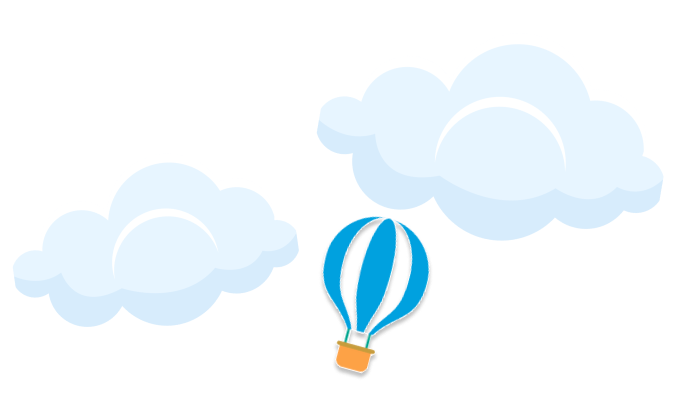
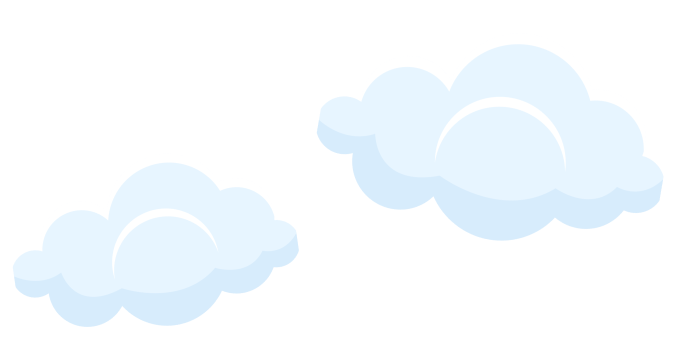
serviços finalizado

diff --git a/servicos.html b/servicos.html
@@ -44,29 +44,29 @@
       </div>
     </header>
 
-    <main class="intro-bg">
-      <div class="wave">
-        <svg
-          data-name="Layer 1"
-          xmlns="http://www.w3.org/2000/svg"
-          viewBox="0 0 1200 120"
-          preserveAspectRatio="none">
-          <path
-            d="M321.39,56.44c58-10.79,114.16-30.13,172-41.86,82.39-16.72,168.19-17.73,250.45-.39C823.78,31,906.67,72,985.66,92.83c70.05,18.48,146.53,26.09,214.34,3V0H0V27.35A600.21,600.21,0,0,0,321.39,56.44Z"
-            class="shape-fill"></path>
-        </svg>
-      </div>
-      <article class="servicos">
-        <section class="container" aria-label="Palestras">
-          <div class="texto-servicos col-2">
-            <h1 class="font-1-xl cor-a4">Nossos <span>serviços</span>.</h1>
-            <p class="font-3-regular cor-a3">
-              Percebendo essa busca por ser o melhor Pai enquanto líder, amigo,
-              conselheiro e até mesmo marido. É com este compilado que oferto
-              minha visão paternal para todos!
-            </p>
-          </div>
-          <div class="palestras-img">
+    <main>
+      <div class="intro-bg">
+        <div class="wave">
+          <svg
+            data-name="Layer 1"
+            xmlns="http://www.w3.org/2000/svg"
+            viewBox="0 0 1200 120"
+            preserveAspectRatio="none">
+            <path
+              d="M321.39,56.44c58-10.79,114.16-30.13,172-41.86,82.39-16.72,168.19-17.73,250.45-.39C823.78,31,906.67,72,985.66,92.83c70.05,18.48,146.53,26.09,214.34,3V0H0V27.35A600.21,600.21,0,0,0,321.39,56.44Z"
+              class="shape-fill"></path>
+          </svg>
+        </div>
+        <div class="texto-servicos container">
+          <h1 class="font-1-xl cor-a4 col-2">Nossos <span>serviços</span>.</h1>
+          <p class="font-3-regular cor-a3">
+            Percebendo essa busca por ser o melhor Pai enquanto líder, amigo,
+            conselheiro e até mesmo marido. É com este compilado que oferto
+            minha visão paternal para todos!
+          </p>
+        </div>
+        <section class="servicos palestras container" aria-label="Palestras">
+          <div class="servicos-img">
             <img src="/imgs/diretor.jpg" alt="" />
           </div>
           <div class="texto-palestras">
@@ -92,20 +92,27 @@
               class="shape-fill"></path>
           </svg>
         </div>
-        <section class="container workshop" aria-label="Workshops">
-          <div class="texto-palestras">
-            <h1 class="font-1-xl cor-a4"><span>Palestras</span>.</h1>
-            <ul class="font-3-bold cor-a4 lista">
-              <li>Ser diferente é o que nos faz IGUAIS!</li>
-              <p class="font-3-light cor-a3"></p>
-              <li>O Pai que carrego em Mim.</li>
-              <p class="font-3-light cor-a3"></p>
-              <li>Mãos ao ombro, bora motivar.</li>
-              <p class="font-3-light cor-a3"></p>
-            </ul>
-          </div>
-        </section>
-      </article>
+      </div>
+      <section class="servicos workshops container" aria-label="Workshops">
+        <div class="texto-palestras">
+          <h1 class="font-1-xl cor-a4"><span>Workshops</span>.</h1>
+          <ul class="font-3-bold cor-a4 lista">
+            <li>Ser diferente é o que nos faz IGUAIS!</li>
+            <p class="font-3-light cor-a3">
+              Inclusão existe mesmo? O que realmente é diferente? Equanimidade
+              pode ser a resposta, e eu te mostro isso em uma conversa
+              imersiva!
+            </p>
+            <li>O Pai que carrego em Mim.</li>
+            <p class="font-3-light cor-a3"></p>
+            <li>Mãos ao ombro, bora motivar.</li>
+            <p class="font-3-light cor-a3"></p>
+          </ul>
+        </div>
+        <div class="servicos-img">
+          <img src="/imgs/workshops.jpg" alt="" />
+        </div>
+      </section>
     </main>
 
     <footer class="footer-bg">

diff --git a/estilos/paginas/servicos/servicos.css b/estilos/paginas/servicos/servicos.css
@@ -9,21 +9,87 @@
 #servicos .wave2 {
   position: relative;
   height: auto;
+  background-color: var(--cor-a-2);
+}
+
+#servicos main {
+  background-color: var(--cor-a-3);
 }
 
 #servicos .intro-bg {
   background-color: var(--cor-a-2);
+  padding-bottom: 0;
 }
 
-#servicos h1 {
-  margin-bottom: 20px;
+.servicos-img {
+  place-content: center;
+}
+
+.servicos-img img {
+  border-radius: 20px;
+  filter: drop-shadow(0px 4px 4px rgba(0, 0, 0, 0.25));
+  object-fit: cover;
+  max-height: 420px;
+  object-position: top;
+  aspect-ratio: 1/2;
+  width: 100%;
 }
 
 .texto-servicos {
   padding-top: 160px;
-  background: url("/imgs/nuvens.png") no-repeat right;
+  gap: 20px;
+  background: url("/imgs/nuvens-e-balao.png") no-repeat right;
+  padding-bottom: 80px;
 }
 
-.texto-servicos p {
+.servicos h1 {
+  margin-bottom: 0;
+}
+
+.servicos p {
   max-width: 45ch;
+}
+
+.palestras {
+  position: relative;
+  padding-bottom: 20px;
+}
+
+.palestras h1::after {
+  content: "";
+  display: inline-block;
+  height: 40px;
+  width: 40px;
+  background: url("/imgs/icones/coroa-rei.png") center;
+}
+
+.palestras::after {
+  content: "";
+  display: block;
+  background: url("/imgs/decorador-peça.png");
+  width: 100px;
+  height: 150px;
+  background-size: contain;
+  position: absolute;
+  bottom: -80px;
+  right: 5%;
+  z-index: 1;
+}
+
+.workshops {
+  background-color: var(--cor-a-3);
+}
+
+.workshops h1::after {
+  content: "";
+  display: inline-block;
+  height: 40px;
+  width: 40px;
+  background: url("/imgs/icones/coroa-rainha.png") center;
+}
+
+@media (max-width: 800px) {
+  .texto-servicos {
+    background: url("/imgs/nuvens.png");
+  }
 }

diff --git a/estilos/paginas/sobre-nos/sobre-nos.css b/estilos/paginas/sobre-nos/sobre-nos.css
@@ -92,7 +92,7 @@
   transform: rotate3d(0, 1, 0, 180deg);
 }
 
-.wave2::after {
+#sobre-nos .wave2::after {
   content: "";
   display: block;
   background: url("/imgs/decorador-peça.png") no-repeat;

diff --git a/estilos/paginas/home/home.css b/estilos/paginas/home/home.css
@@ -84,7 +84,7 @@ section h1 {
 .lista li {
   position: relative;
   cursor: pointer;
-  margin-bottom: 8px;
+  margin-top: 16px;
   max-width: 32ch;
 }
 
